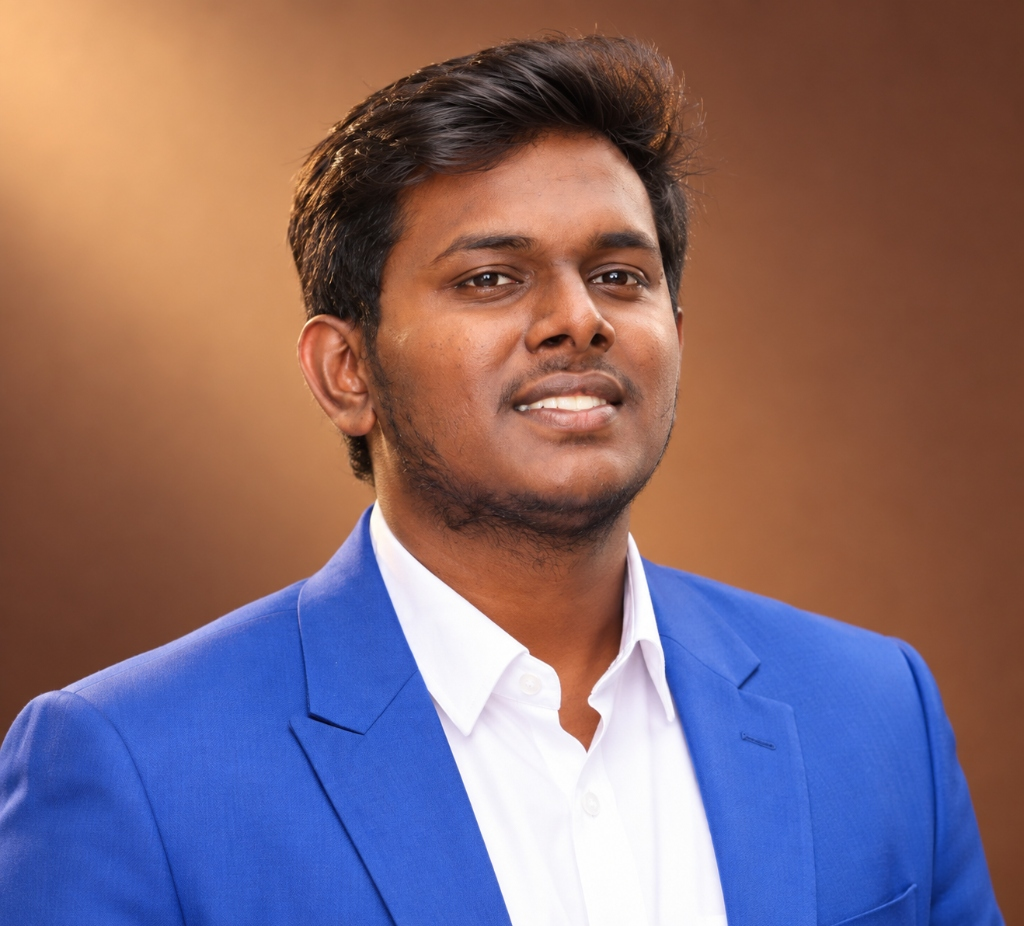
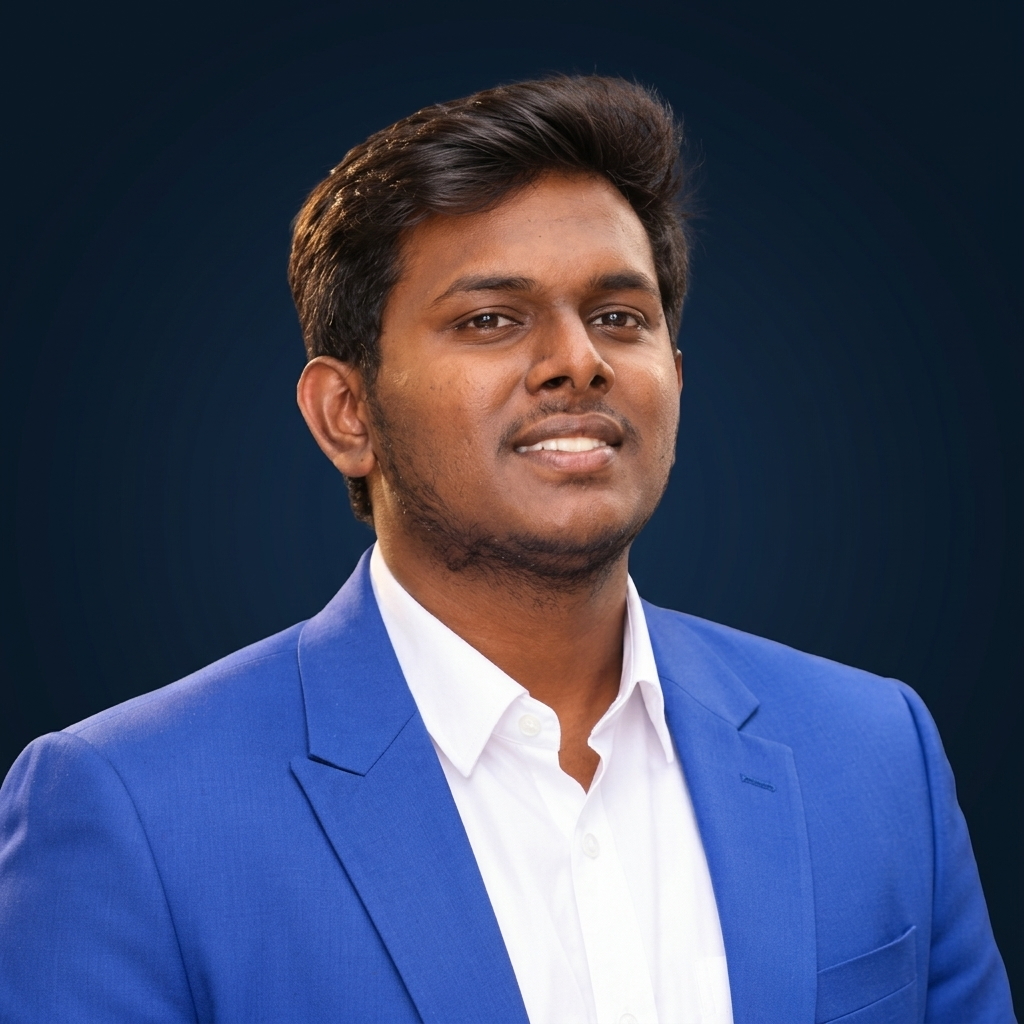
feat: real email via EmailJS, mobile responsive layout, professional dark-bg portrait

diff --git a/frontend/src/pages/Contact.jsx b/frontend/src/pages/Contact.jsx
@@ -1,9 +1,10 @@
 import { useState } from 'react';
 import { motion } from 'framer-motion';
+import emailjs from '@emailjs/browser';
 import { profile } from '../data/resumeData';
 import {
   FiSend, FiGithub, FiLinkedin, FiMail, FiPhone, FiMapPin,
-  FiClock, FiCopy, FiCheck, FiExternalLink, FiGlobe
+  FiClock, FiCopy, FiCheck, FiExternalLink, FiAlertCircle
 } from 'react-icons/fi';
 import { AwsRoute53Icon, AwsLogo } from '../components/AwsIcons';
 
@@ -75,9 +76,10 @@ const dnsRecords = [
 ];
 
 export default function Contact() {
-  const [form, setForm] = useState({ name: '', email: '', subject: '', message: '' });
+  const [form, setForm] = useState({ name: '', email: '', subject: '', message: '', bot_check: '' });
   const [submitted, setSubmitted] = useState(false);
   const [loading, setLoading] = useState(false);
+  const [error, setError] = useState(null);
   const [copiedKey, setCopiedKey] = useState(null);
 
   const copyToClipboard = (text, key) => {
@@ -88,41 +90,45 @@ export default function Contact() {
 
   const handleSubmit = async (e) => {
     e.preventDefault();
+    if (form.bot_check) return; // honeypot
     setLoading(true);
+    setError(null);
 
-    const submissionPayload = {
-      ...form,
-      timestamp: new Date().toISOString(),
-      id: Date.now(),
-    };
+    // ── EmailJS: sends email directly from browser (works on GitHub Pages) ──
+    // To activate: sign up at emailjs.com, create a service + template,
+    // then replace the three placeholders below with your IDs.
+    const EMAILJS_SERVICE_ID  = 'YOUR_SERVICE_ID';   // e.g. 'service_abc123'
+    const EMAILJS_TEMPLATE_ID = 'YOUR_TEMPLATE_ID';  // e.g. 'template_xyz456'
+    const EMAILJS_PUBLIC_KEY  = 'YOUR_PUBLIC_KEY';   // e.g. 'abcDEFghiJKL'
 
-    // Attempt local API with 1.2s timeout; fallback gracefully if offline/on GitHub Pages
     try {
-      const controller = new AbortController();
-      const timeoutId = setTimeout(() => controller.abort(), 1200);
-
-      await fetch('http://localhost:3001/api/contact', {
-        method: 'POST',
-        headers: { 'Content-Type': 'application/json' },
-        body: JSON.stringify(form),
-        signal: controller.signal,
-      });
-      clearTimeout(timeoutId);
-    } catch (_) {
-      // Local storage fallback for live hosting environments
+      await emailjs.send(
+        EMAILJS_SERVICE_ID,
+        EMAILJS_TEMPLATE_ID,
+        {
+          from_name:    form.name,
+          from_email:   form.email,
+          subject:      form.subject || 'Portfolio Contact',
+          message:      form.message,
+          to_email:     profile.email,
+          reply_to:     form.email,
+        },
+        EMAILJS_PUBLIC_KEY
+      );
+      setSubmitted(true);
+    } catch (err) {
+      console.error('EmailJS error:', err);
+      // Graceful fallback: save to localStorage so submission isn't lost
       try {
         const existing = JSON.parse(localStorage.getItem('portfolio_contact_submissions') || '[]');
-        existing.push(submissionPayload);
+        existing.push({ ...form, timestamp: new Date().toISOString() });
         localStorage.setItem('portfolio_contact_submissions', JSON.stringify(existing));
-      } catch (err) {
-        console.warn('Storage save fallback skipped:', err);
-      }
-    }
-
-    setTimeout(() => {
-      setLoading(false);
+      } catch (_) {}
+      setError('Message saved locally — email delivery needs EmailJS configured. See README.');
       setSubmitted(true);
-    }, 300);
+    } finally {
+      setLoading(false);
+    }
   };
 
   return (
@@ -160,7 +166,7 @@ export default function Contact() {
             </div>
             <h2 className="operator-banner-name">{profile.name}</h2>
             <p className="operator-banner-role">
-              AWS Cloud Engineer | DevOps | Linux Administration | Site Reliability
+              Cloud & Platform Engineer · DevOps · SRE
             </p>
             <div className="operator-banner-meta">
               <span><FiMapPin size={12} /> {profile.location}</span>
@@ -367,14 +373,17 @@ export default function Contact() {
                 animate={{ opacity: 1, scale: 1 }}
                 style={{ textAlign: 'center', padding: '50px 24px', background: 'var(--bg-tag)', borderRadius: 'var(--radius-md)', margin: '20px 0' }}
               >
-                <div style={{ width: 56, height: 56, borderRadius: '50%', background: 'rgba(34, 197, 94, 0.15)', color: '#22c55e', display: 'flex', alignItems: 'center', justifyContent: 'center', margin: '0 auto 16px auto', border: '2px solid #22c55e' }}>
-                  <FiCheck size={28} />
+                <div style={{ width: 56, height: 56, borderRadius: '50%', background: error ? 'rgba(251,191,36,0.15)' : 'rgba(34, 197, 94, 0.15)', color: error ? '#fbbf24' : '#22c55e', display: 'flex', alignItems: 'center', justifyContent: 'center', margin: '0 auto 16px auto', border: `2px solid ${error ? '#fbbf24' : '#22c55e'}` }}>
+                  {error ? <FiAlertCircle size={28} /> : <FiCheck size={28} />}
                 </div>
                 <div style={{ fontSize: '18px', fontWeight: 800, color: 'var(--text-primary)', marginBottom: '8px' }}>
-                  DNS Transmission Resolved!
+                  {error ? 'Saved Locally!' : 'DNS Transmission Resolved!'}
                 </div>
                 <div style={{ fontSize: '13px', color: 'var(--text-secondary)', lineHeight: 1.6, maxWidth: '400px', margin: '0 auto 20px auto' }}>
-                  Thank you, <strong>{form.name}</strong>. Your payload has been dispatched to <strong>{profile.email}</strong>. Jeevanand will follow up within <strong>{profile.response}</strong>.
+                  {error
+                    ? <>{error}<br/><span style={{fontSize:'11px',opacity:0.7}}>To enable live email: set up your EmailJS IDs in Contact.jsx.</span></>
+                    : <>Thank you, <strong>{form.name}</strong>. Your message has been sent to <strong>{profile.email}</strong>. Jeevanand will reply within <strong>{profile.response}</strong>.</>
+                  }
                 </div>
                 <button
                   type="button"

diff --git a/frontend/src/index.css b/frontend/src/index.css
@@ -2063,3 +2063,145 @@ h1, h2, h3, h4 { font-weight: 700; line-height: 1.2; }
 .stagger-5 { animation-delay: 0.10s; }
 .stagger-6 { animation-delay: 0.12s; }
 
+/* ── Enhanced Mobile Responsiveness ──────────────────────────── */
+
+/* Tablet: 768px */
+@media (max-width: 768px) {
+  :root {
+    --header-height: 120px;
+    --sidebar-width: 0px;
+  }
+
+  .sidebar { display: none; }
+  .header-bar { padding: 8px 12px; }
+
+  .console-window-card { padding: 8px 12px 10px 12px; border-radius: 10px; }
+
+  /* Hide chrome bar extras on tablet */
+  .console-chrome-label { display: none; }
+  .header-status-panel  { display: none; }
+
+  /* Stack the console card body vertically on tablet */
+  .console-card-body {
+    flex-direction: column;
+    align-items: flex-start;
+    gap: 10px;
+  }
+
+  .console-col-divider { display: none; }
+
+  .console-col-profile { gap: 10px; }
+  .console-avatar-ring { width: 46px; height: 46px; }
+
+  /* Col 2 stats: wrap into 2 cols */
+  .console-stat-grid { grid-template-columns: repeat(2, 1fr); gap: 6px; }
+
+  /* Col 3: actions inline */
+  .console-col-actions {
+    display: flex;
+    flex-direction: row;
+    flex-wrap: wrap;
+    gap: 8px;
+    align-items: center;
+    width: 100%;
+  }
+  .console-cv-row { margin-bottom: 0; }
+
+  /* Page content */
+  .main-content { padding: 16px 12px; }
+  .dashboard-grid { grid-template-columns: repeat(2, 1fr); }
+  .about-grid     { grid-template-columns: 1fr; }
+  .contact-grid   { grid-template-columns: 1fr; }
+
+  /* Contact operator banner */
+  .contact-operator-banner {
+    flex-direction: column;
+    gap: 16px;
+    padding: 16px;
+  }
+  .operator-banner-left  { flex-direction: column; align-items: flex-start; }
+  .operator-banner-actions {
+    flex-direction: row;
+    flex-wrap: wrap;
+    width: 100%;
+    gap: 8px;
+  }
+  .banner-btn { flex: 1; justify-content: center; min-width: 120px; }
+
+  /* DNS table: hide description col on small screens */
+  .dns-table th:nth-child(2),
+  .dns-table td:nth-child(2) { display: none; }
+
+  /* About portrait */
+  .about-operator-hero { flex-direction: column; align-items: flex-start; }
+  .about-portrait-frame { width: 90px; height: 90px; }
+}
+
+/* Mobile: 480px */
+@media (max-width: 480px) {
+  :root {
+    --header-height: 105px;
+    --sidebar-width: 0px;
+  }
+
+  html { font-size: 13px; }
+
+  .sidebar { display: none; }
+  .header-bar { padding: 6px 10px; }
+  .console-window-card { padding: 6px 10px 8px 10px; border-radius: 8px; }
+
+  /* Hide non-essential chrome */
+  .console-chrome-bar { margin-bottom: 6px; }
+  .accent-switcher-group { display: none; }
+  .sidebar-colors { display: none; }
+
+  /* Profile row compact */
+  .console-col-profile { gap: 8px; }
+  .console-avatar-ring { width: 40px; height: 40px; border-radius: 10px; }
+  .console-name { font-size: 13px !important; }
+  .console-handle, .console-label { font-size: 10px !important; }
+
+  /* Stats hidden on mobile */
+  .console-stat-grid { display: none; }
+
+  /* Actions: just show email + CV button */
+  .console-col-actions { gap: 6px; }
+  .console-email-link { font-size: 10px; }
+
+  /* Page content */
+  .main-content { padding: 12px 10px; }
+  .dashboard-grid  { grid-template-columns: 1fr; }
+  .projects-grid   { grid-template-columns: 1fr; }
+  .skills-grid     { grid-template-columns: 1fr; }
+  .certs-grid      { grid-template-columns: 1fr; }
+  .card { padding: 14px 12px; }
+
+  /* Contact form */
+  .contact-operator-banner { padding: 12px; }
+  .operator-banner-avatar-frame { width: 52px; height: 52px; }
+  .operator-banner-name { font-size: 16px !important; }
+  .operator-banner-meta { flex-wrap: wrap; gap: 4px; font-size: 10px; }
+
+  /* DNS table: show only type + value + action */
+  .dns-table th:nth-child(2),
+  .dns-table td:nth-child(2) { display: none; }
+  .dns-table { font-size: 11px; }
+  .dns-value-cell { max-width: 130px; overflow: hidden; text-overflow: ellipsis; white-space: nowrap; }
+
+  /* Form inputs full width */
+  .form-input, .form-textarea { font-size: 13px; }
+  .btn-submit { font-size: 13px; padding: 10px 16px; }
+
+  /* Quick connect cards */
+  .quick-connect-grid { grid-template-columns: 1fr; }
+
+  /* Page headers */
+  .page-title { font-size: 20px !important; }
+  .page-subtitle { font-size: 12px; }
+}
+
+/* Safe area for notched phones (iPhone X+) */
+@supports (padding-bottom: env(safe-area-inset-bottom)) {
+  .app-shell { padding-bottom: env(safe-area-inset-bottom); }
+  .header-bar { padding-left: max(12px, env(safe-area-inset-left)); padding-right: max(12px, env(safe-area-inset-right)); }
+}
